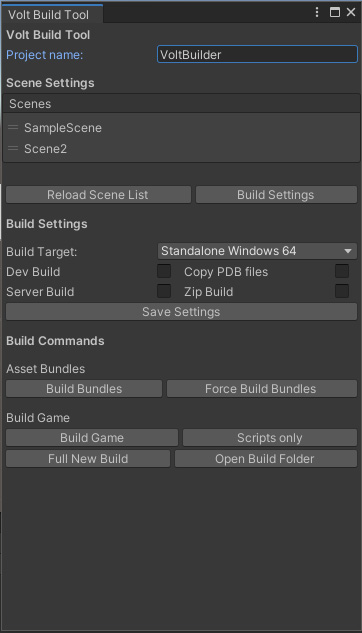
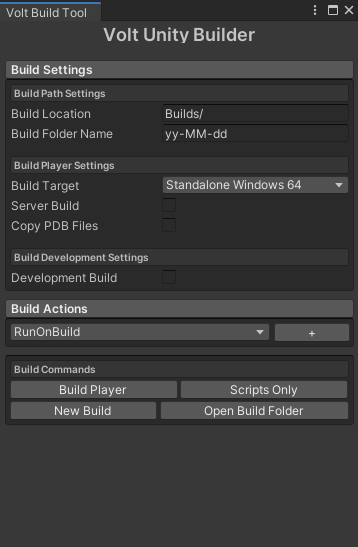
Update readme and preview

Changed region(s): [[0.0, 0.0, 1.0, 0.9945]]

diff --git a/README.md b/README.md
@@ -1,82 +1,69 @@
 # UnityVoltBuilderTool
 
-[![Build project](https://github.com/Voltstro/UnityVoltBuilderTool/workflows/Build%20project/badge.svg)](https://github.com/Voltstro/UnityVoltBuilderTool/actions)
 [![License](https://img.shields.io/github/license/voltstro/UnityVoltBuilderTool.svg)](/LICENSE)
 [![Discord](https://img.shields.io/badge/Discord-Voltstro-7289da.svg?logo=discord)](https://discord.voltstro.dev) 
 [![YouTube](https://img.shields.io/badge/Youtube-Voltstro-red.svg?logo=youtube)](https://www.youtube.com/Voltstro)
-
 
 An in editor, modular tool to make Unity game builds easier and more convenient.
 
 # Features
 
-The main feature of this tool is that its modular! It is broken down into 3 sections, scene settings, build settings and game builder.
-You can modify or provide your own modules for any of these sections using the interfaces.
-
-The default modules provide these features:
-* Scene import from build settings, re-arrange in tool
-* Change build target, if it’s a dev build, copy PDB files and/or if it’s a server build
-* Copy files to build folder on successful build
-* Zip build folder on successful build
-* Build bundles
-* Build game as full or scripts only
-* Do a new build in a new folder with the current date
+- Easy to get at menu of settings to build your Unity player.
+- Build Actions (Can add custom GUI to the tool, do something before and after a build)
+- Easily do a "Quick" build, a new build, or a scripts only build.
 
 # Installation
 
 Please read all of the install instructions before installing!
 
-## Dependencies
-
-- This tool does require Newtonsoft.Json to be in your project, and by default uses the [Unity package version](https://docs.unity3d.com/Packages/com.unity.nuget.newtonsoft-json@2.0/manual/index.html) of it. If you already have Newtonsoft.Json installed as a plugin you will need to remove it and use the package version.
-
-- By default, VoltBuilder has .zip support for the builds, so it includes `System.IO.Compression` and `System.IO.Compression.FileSystem` as plugins in the package. If you have these in your project you may need to remove them.
-
 ## Installing the package
-
-There are two ways to install this, you can either install it via the package manager (recommended way) or the old school way via the [releases](/releases) section.
 
 To install it via the package manager you will need to:
 
 1. Open up the package manager via Windows **->** Package Manager
 2. Click on the little + sign **->** Add package from git URL...
-3. Type `https://github.com/VoltUnityPackages/UnityVoltBuilderTool.git?path=/src/VoltBuilder/Assets/Editor/VoltBuild` and add it
+3. Type `https://github.com/VoltUnityPackages/VoltUnityBuilder.git` and add it
 4. Unity will now download and install the package
 
 # Using the tool
 
-To use the tool, go to Tools **->** Volt Build **->** Build Tool. It will open up a screen that looks like this: (default)
+To use the tool, go to Tools **->** Volt Unity Builder **->** Volt Builder. It will open up a screen that looks like this:
 
 ![Preview](preview.jpg)
 
 Its recommended to dock the window somewhere for convince.
 
-If you are using the default build config and default builder, you can change what files are copied to the build folder by going to Tools **->** Volt Build **->** Copy Files On Build Editor.
-
 ## Supported Versions
 
 This tool was built and tested for Unity 2019.4 on Windows. 
 
-Other OSes should work; however, no testing has been done on them. The only thing that will not work on other Oses is the 'Open Build Folder' button
+Other OSes should work; however, no testing has been done on them.
 
-## Modifying the tool for your project
+## Adding a custom 'Build Action'
 
-This tool is designed to be modified, you can still use the default one if you want!
+To add a custom Build Action, add a class to your project, and make it implement `IBuildAction`. You will then need to add the required methods: `OnGUI()`, `OnBeforeBuild(string buildLocation)`, and `OnAfterBuild(string buildLocation)`.
 
-Like I said before, the build tool is broken down into 3 sections using interfaces. You can change what class that implements the interface required. An example is included on how to do that in the package. You can import the sample by going to the package in the package manager, and importing the sample under the 'Samples' section.
-
-## Using a custom config
-
-You may want to use a custom build config to save settings that you need in your build settings. For example, you might want to save if you want to copy the build or not.
-
-You can change it via change the variable `ConfigManager.Config` to a class that implements `Config`.
-
-After that you can use `ConfigManager.GetBuildConfig(out T config)` to get a custom build config. E.G:
+In the end it should look like this:
 
 ```csharp
-if(ConfigManager.GetBuildConfig(out MyExampleConfig config))
+using Voltstro.UnityBuilder.Actions;
+
+public class CustomBuildAction : IBuildAction
 {
-	config.CopyBuildToShare = true;
+	public void OnGUI()
+	{
+		//Do your GUI stuff here
+	}
+
+	public void OnBeforeBuild(string buildLocation)
+	{
+		//Do stuff you want to do before a build
+	}
+
+	public void OnAfterBuild(string buildLocation)
+	{
+		//Do stuff here after a build
+	}
 }
 ```
 
